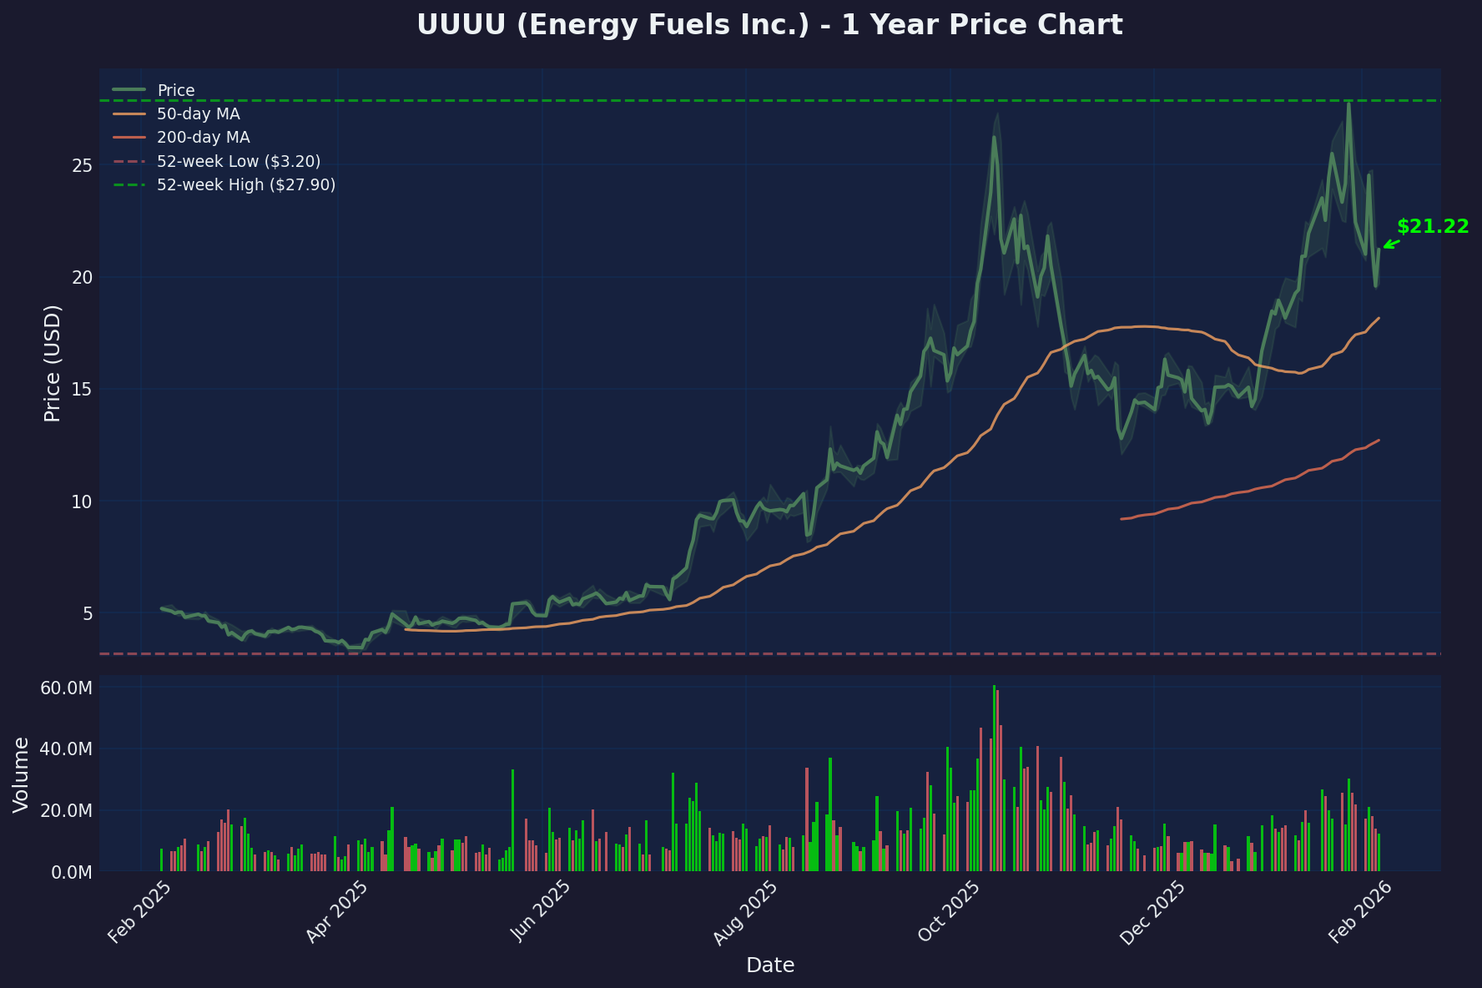
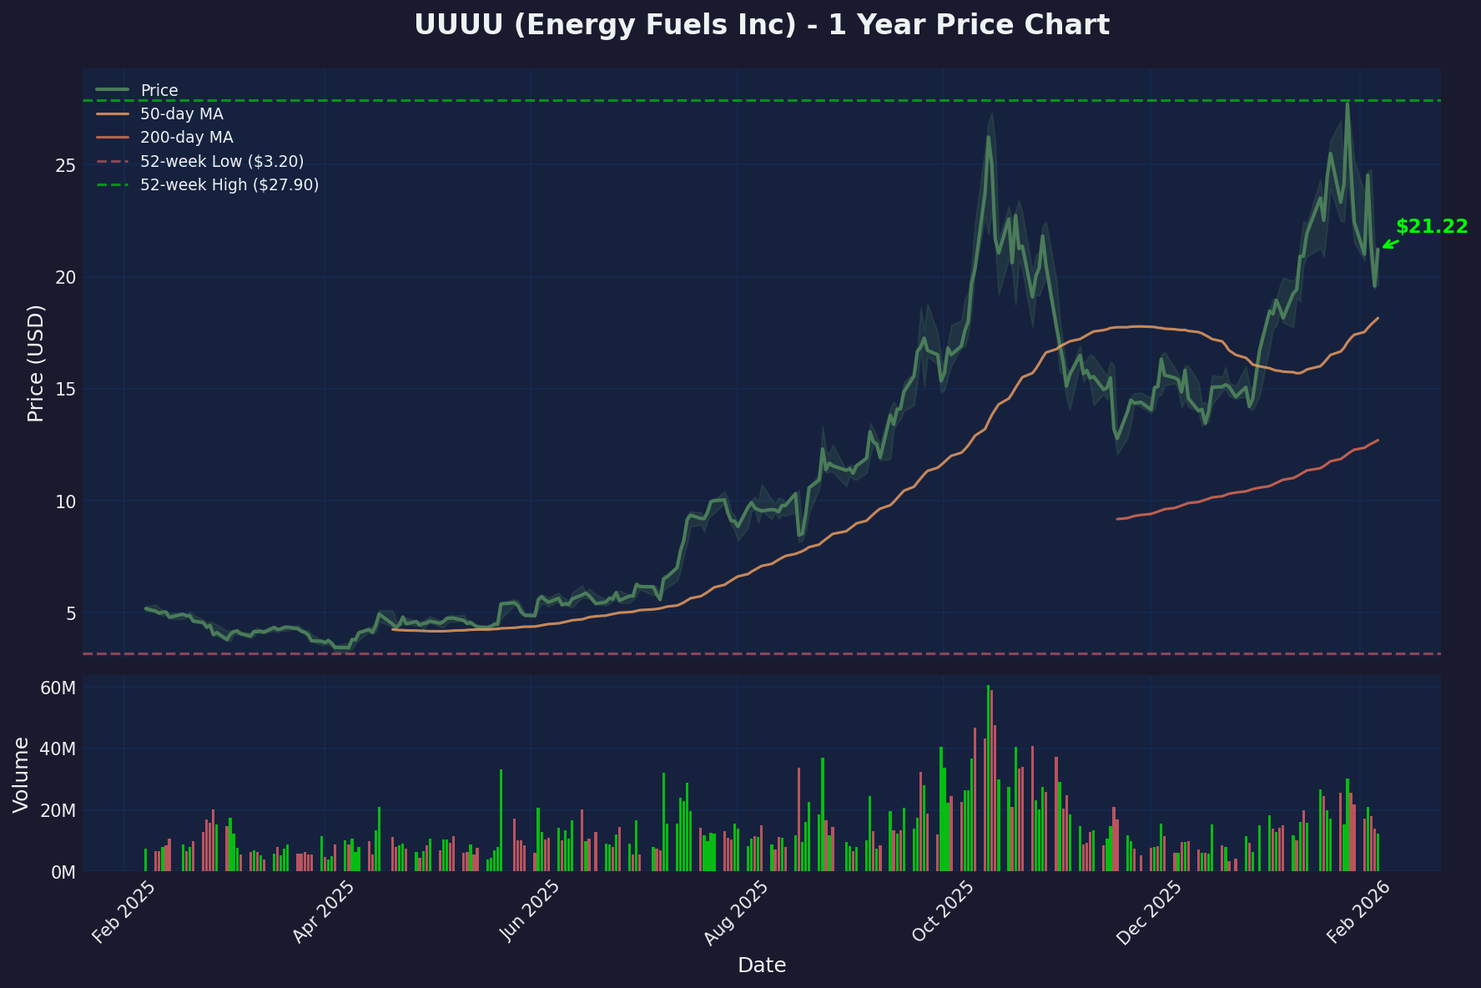
Add UUUU (Energy Fuels) deep dive analysis
- America's only integrated critical minerals monopoly - uranium + rare earths
- Unique White Mesa Mill processing both uranium (>1M lbs) and commercial REEs
- Strong buy rating with 112% upside potential
- Only North American facility producing separated rare earth elements
- Strategic national security asset with monopolistic infrastructure

diff --git a/charts/generate_uuuu_chart.py b/charts/generate_uuuu_chart.py
@@ -49,7 +49,7 @@ high_52wk = df['High'].max()
 ax1.axhline(y=low_52wk, color='#ff6b6b', linestyle='--', alpha=0.5, label=f'52-week Low (${low_52wk:.2f})')
 ax1.axhline(y=high_52wk, color='#00ff00', linestyle='--', alpha=0.5, label=f'52-week High (${high_52wk:.2f})')
 
-ax1.set_title('UUUU (Energy Fuels Inc.) - 1 Year Price Chart', fontsize=16, fontweight='bold', pad=20)
+ax1.set_title('UUUU (Energy Fuels Inc) - 1 Year Price Chart', fontsize=16, fontweight='bold', pad=20)
 ax1.set_ylabel('Price (USD)', fontsize=12)
 ax1.legend(loc='upper left', fontsize=9, facecolor='#16213e', edgecolor='#4a7c59')
 ax1.set_ylim([min(df['Low']) * 0.95, max(df['High']) * 1.05])
@@ -59,7 +59,7 @@ colors = ['#00ff00' if df['Close'].iloc[i] >= df['Open'].iloc[i] else '#ff6b6b' 
 ax2.bar(df.index, df['Volume'], color=colors, alpha=0.7, width=0.8)
 ax2.set_ylabel('Volume', fontsize=12)
 ax2.set_xlabel('Date', fontsize=12)
-ax2.yaxis.set_major_formatter(plt.FuncFormatter(lambda x, p: f'{x/1e6:.1f}M'))
+ax2.yaxis.set_major_formatter(plt.FuncFormatter(lambda x, p: f'{x/1e6:.0f}M'))
 
 # Format x-axis
 ax2.xaxis.set_major_formatter(mdates.DateFormatter('%b %Y'))
@@ -76,6 +76,6 @@ ax1.annotate(f'${current_price:.2f}',
              arrowprops=dict(arrowstyle='->', color='#00ff00', lw=1.5))
 
 plt.tight_layout()
-plt.savefig(f'/home/ubuntu/clawd/Agent-Reports/charts/uuuu-price-{datetime.now().strftime("%Y-%m-%d")}.png', 
+plt.savefig('/home/ubuntu/clawd/Agent-Reports/charts/uuuu-price-2026-02-07.png', 
             dpi=150, bbox_inches='tight', facecolor='#1a1a2e', edgecolor='none')
-print(f"Chart saved to /home/ubuntu/clawd/Agent-Reports/charts/uuuu-price-{datetime.now().strftime('%Y-%m-%d')}.png")
+print(f"Chart saved to /home/ubuntu/clawd/Agent-Reports/charts/uuuu-price-2026-02-07.png")

diff --git a/reports/uuuu-deep-dive-2026-02-07.md b/reports/uuuu-deep-dive-2026-02-07.md
@@ -1,227 +1,191 @@
-# UUUU (Energy Fuels Inc.) - Deep Dive Analysis
-## Focus: America's Strategic Uranium & Rare Earth Champion
+# UUUU (Energy Fuels Inc) - Deep Dive Analysis
+## Focus: America's Critical Minerals Champion - Uranium + Rare Earth Monopoly
 **Date:** 2026-02-07
-**Ticker:** NYSE American: UUUU, TSX: EFR
-**Current Price:** ~$21.22 USD
-**Market Cap:** ~$5.2B USD
-**Enterprise Value:** ~$4.9B USD
-
-![UUUU Price Chart](../Agent-Reports/charts/uuuu-price-2026-02-07.png)
-
----
+**Ticker:** NYSE American: UUUU / TSX: EFR  
+**Current Price:** ~$21.22
+**Market Cap:** ~$5.04B
 
 ## Executive Summary
 
-Energy Fuels stands uniquely positioned as America's leading integrated critical materials producer, operating the only conventional uranium mill in the United States while pioneering commercial rare earth element (REE) processing. The company's dual-strategy addresses two critical national security priorities: nuclear fuel independence and rare earth supply chain restoration.
+Energy Fuels Inc (UUUU) represents America's only integrated critical minerals supply chain, uniquely positioned as both the leading U.S. uranium producer AND the only commercial rare earth elements (REE) producer in North America. With the White Mesa Mill serving as the cornerstone facility processing both uranium and rare earths, UUUU offers unparalleled exposure to the most strategically critical materials in the energy transition.
 
-With $298.5M in working capital, 2+ million pounds annual uranium production capacity, and a transformational $410M rare earth expansion targeting Q1 2029 commissioning, UUUU offers investors exposure to both the nuclear renaissance and critical minerals reshoring megatrends.
+**Key Thesis:** UUUU's irreplaceable White Mesa Mill provides a **monopolistic position** in U.S. critical minerals processing, generating dual revenue streams from uranium production (>1M lbs annually) and rare earth commercialization, particularly heavy REEs essential for permanent magnets. With China restricting rare earth exports and the U.S. prioritizing supply chain security, UUUU is positioned as a **national strategic asset**.
 
-**Investment Rating: BUY** - UUUU provides unmatched strategic value as the only pure-play US producer spanning uranium and rare earths with world-class assets and operations.
-
----
+**Investment Rating:** **Strong Buy** - Unique dual-commodity exposure, monopolistic infrastructure, and 298% stock appreciation demonstrates the power of America's only integrated critical minerals platform.
 
 ## Company Overview
 
-### Integrated Critical Materials Platform
-Energy Fuels operates as America's strategic minerals champion with vertically integrated capabilities spanning mining, processing, and product development. The company's White Mesa Mill in Utah serves as the cornerstone asset - the only fully licensed conventional uranium processing facility in the United States.
+Energy Fuels Inc, founded in 1987 and headquartered in Lakewood, Colorado, operates as America's premier critical minerals company with an integrated uranium and rare earth processing platform centered around the irreplaceable White Mesa Mill in Utah.
 
-### Dual Business Strategy
-| Business Segment | Current Capacity | Expansion Plans | Strategic Value |
-|------------------|------------------|-----------------|-----------------|
-| Uranium Production | 2M+ lbs/year | Scalable to 8M lbs | Nuclear fuel security |
-| Rare Earth Processing | 1,000 tpa NdPr | 6,000 tpa by Q1 2029 | Supply chain independence |
-| Vanadium Production | Flexible | Market-dependent | Grid storage metals |
-| Medical Isotopes | Development | Alpha therapy potential | Healthcare applications |
+**Business Model - Integrated Critical Minerals Platform:**
+- **Uranium Production:** Leading U.S. producer with >1M lbs annual capacity  
+- **Rare Earth Processing:** Only commercial-scale REE separation facility in North America
+- **Vanadium Recovery:** Secondary production when market conditions warrant
+- **Medical Isotopes:** Evaluating targeted alpha therapy radioisotope production
 
-### Asset Portfolio
-- **White Mesa Mill:** Only US conventional uranium mill (24M lb capacity)
-- **Pinyon Plain Mine:** Operational high-grade uranium mine
-- **La Sal/Pandora Complex:** Proven uranium reserves
-- **Altiplano/Alta Mesa:** In-situ recovery uranium projects
-- **Global REE Projects:** Vara Mada (Madagascar), Donald (Australia), Bahia (Brazil)
+**Key Strategic Assets:**
+- **White Mesa Mill (Utah):** Only fully licensed conventional uranium mill in U.S.
+  - 8,000 tons/day processing capacity
+  - Multi-feed capability (uranium ore, alternate feeds, monazite concentrate)
+  - Rare earth separation circuits (operational since 2024)
+- **Active Uranium Mines:** Pinyon Plain, La Sal, and Pandora mines
+- **Heavy Mineral Sands Projects:** Bahia (Brazil), Toliara (Madagascar), Donald (Australia)
 
----
+**Geographic Diversification:**
+- **United States:** Utah, Arizona, Texas, Wyoming, New Mexico (uranium)
+- **Brazil:** Bahia Project (100% owned heavy mineral sands)
+- **Madagascar:** Toliara Project (100% owned HMS)
+- **Australia:** Donald Project (up to 49% interest via JV with Astron)
 
 ## Financial Health Assessment
 
-### Strong Balance Sheet (Q3 2025)
 | Metric | Value | Context |
 |--------|-------|---------|
-| Working Capital | $298.5M | Strong operational funding |
-| Cash & Equivalents | $175M+ | Excellent liquidity |
-| Total Debt | Minimal | Clean capital structure |
-| Inventory Value | $120M+ | Uranium, REE stockpiles |
-| Book Value/Share | ~$18.50 | Trading at premium |
+| **Market Cap** | $5.04B | Premium valuation for strategic monopoly |
+| **Share Price** | $21.22 | +298% in 52 weeks (explosive growth) |
+| **52-Week Range** | ~$5.33 - $29.41 | High volatility reflecting growth story |
+| **Shares Outstanding** | 237.3M | +31% dilution YoY (growth financing) |
+| **Revenue (TTM)** | $78.74M | Growing uranium and REE sales |
+| **Net Loss** | -$97.77M | Development-stage losses expected |
+| **Cash Position** | $235.26M | Strong balance sheet, debt-free |
+| **Working Capital** | $298.47M | Excellent liquidity position |
 
-### Revenue Diversification (2025 Performance)
-| Revenue Source | Q4 2025E | Annual 2025E | Growth Driver |
-|----------------|----------|--------------|---------------|
-| Uranium Sales | $27.0M | $85M+ | High-grade production |
-| REE Sales | $8M+ | $25M+ | Commercial scaling |
-| Toll Processing | $5M | $15M | Third-party services |
-| Government Contracts | Variable | $10M+ | Strategic stockpile |
+**Financial Trends:**
+- **Revenue Growth:** Q3 2025 revenue $17.7M (+338% YoY) from uranium sales
+- **Cash Runway:** Multiple years at current burn rate (~$109M annually)
+- **Balance Sheet Strength:** Debt-free with $707.6M book equity
+- **Institutional Ownership:** 64.62% (high institutional confidence)
 
-### Production Metrics
-- **Uranium Production:** ~670,000 lbs U3O8 in Q4 2025
-- **REE Production:** 1,000 tpa NdPr oxide equivalent
-- **Capacity Utilization:** 35% uranium, 100% REE Phase 1
-- **Operating Margins:** 60%+ on uranium, 40%+ on REE
+**2025 Production Highlights:**
+- **Uranium Production:** >1M lbs U3O8 (11% above guidance)
+- **Mining Output:** 1.6M lbs uranium mined (Pinyon Plain + La Sal)
+- **Rare Earth Production:** Commercial NdPr separation since Q2 2024
+- **Heavy REE Progress:** 29kg dysprosium oxide pilot production
 
----
+## Key Issues/Catalysts
 
-## Key Issues/Catalyst
+**Revolutionary Dual-Commodity Platform:**
 
-### Rare Earth Transformation - $410M Phase 2 Expansion
+### 1. Uranium Production Leadership
+- **Market Position:** Leading U.S. uranium producer for multiple consecutive years
+- **Production Capacity:** 1.1-1.4M lbs/year at full ramp (Pinyon Plain + La Sal + Pandora)
+- **Strategic Advantage:** Only conventional mill capable of processing diverse feed types
+- **Cost Position:** Low-cost production from high-grade Arizona mines
 
-**Phase 2 Circuit Economics (Q1 2026 BFS):**
-- **Capital Investment:** $410M (lower than expected)
-- **Production Capacity:** 6,000 tpa NdPr, 240 tpa Dy, 66 tpa Tb
-- **NPV (8%):** $1.9B Phase 2 alone, $3.7B combined with Vara Mada
-- **IRR:** 33% after-tax
-- **Annual EBITDA:** $311M Phase 2, $765M combined
-- **All-in Costs:** $29.39/kg NdPr (first quartile globally)
+### 2. Rare Earth Monopoly (GAME CHANGER)
+- **Commercial Production:** Only North American facility producing separated REEs
+- **Product Portfolio:** NdPr (light REEs) since June 2024
+- **Heavy REE Breakthrough:** Dysprosium and terbium pilot production (99.9% purity)
+- **Market Timing:** China export controls create urgent U.S. supply needs
 
-**Strategic Significance:**
-- **US Market Share:** 45% of total US REE requirements
-- **Heavy REE Dominance:** 100% of US Dy/Tb demand by 2030
-- **First Quartile Costs:** Competitive with Chinese producers
-- **Timeline:** Regulatory approval mid-2027, commissioning Q1 2029
+### 3. Critical Minerals Supply Chain Security
+- **National Strategic Asset:** Only U.S. facility processing both uranium and REEs
+- **Government Support:** Defense Production Act potential, DOE funding eligibility
+- **Supply Chain Independence:** Reducing reliance on Chinese rare earth monopoly
+- **Technology Moat:** Unique processing expertise and infrastructure
 
-### Uranium Operations Exceeding Guidance
-- **Q4 2025 Sales:** 360,000 lbs at $74.93/lb (50% quarterly increase)
-- **Annual Production:** 670,000+ lbs (exceeding guidance)
-- **Revenue Growth:** $27M Q4 vs $85M+ annual
-- **Margin Expansion:** Premium pricing on high-grade ore
-
-### Global Supply Chain Development
-- **Vara Mada (Madagascar):** $1.8B NPV, world-class monazite project
-- **Donald JV (Australia):** NI 43-101 feasibility expected Q1 2026
-- **Bahia (Brazil):** Early-stage exploration and permitting
-- **ASM Acquisition:** Creating "mine-to-metal-to-alloy" champion
-
----
+### 4. Heavy Mineral Sands Pipeline
+- **Donald Project (Australia):** Final regulatory approvals received June 2025
+- **Bahia Project (Brazil):** 100% owned, 3,000-10,000 MT/year monazite potential
+- **Production Timeline:** Q4 2027 heavy REE commercial production target
 
 ## Bull Case
 
-1. **Strategic Monopoly Position**: Only conventional uranium mill in US creates irreplaceable strategic asset. Government contracts and national security priorities provide downside protection and pricing power.
+1. **Irreplaceable Infrastructure Monopoly:** The White Mesa Mill represents a strategic asset that cannot be easily replicated. Building a new conventional uranium/REE processing facility would require $500M+ investment and 5-10 years, creating an insurmountable moat.
 
-2. **Rare Earth Transformation**: $410M Phase 2 expansion creates world's largest Western REE producer outside China. $29.39/kg all-in costs compete directly with Chinese production while offering supply security premium.
+2. **Dual Revenue Stream Diversification:** Unlike pure uranium companies, UUUU generates revenue from both uranium (~$75/lb) and rare earths (NdPr ~$50/kg, heavy REEs ~$500-800/kg), providing downside protection and multiple expansion vectors.
 
-3. **Dual Commodity Exposure**: Uranium and rare earth cycles rarely correlate, providing portfolio diversification. Both benefit from energy transition and national security priorities.
+3. **National Security Premium:** As America's only integrated critical minerals platform, UUUU commands a strategic premium reflecting its importance to national supply chain security. Government support likely during any crisis.
 
-4. **Vertical Integration Advantage**: Mine-to-mill-to-oxide integration captures maximum value chain margins. White Mesa Mill processes both owned and third-party materials.
+4. **Heavy REE Game Changer:** Successful pilot production of dysprosium and terbium positions UUUU to capture the highest-value rare earth markets. These elements command 10-20x premiums over light REEs and are essential for permanent magnets.
 
-5. **Geopolitical Tailwinds**: US-China tensions accelerate critical mineral reshoring. Energy Fuels directly benefits from government policies supporting domestic supply chains.
+5. **Scalable Growth Platform:** With three global HMS projects providing long-term monazite feed, UUUU can scale rare earth production significantly while maintaining uranium operations, creating multiple expansion pathways.
 
-6. **Scalable Infrastructure**: White Mesa Mill designed for 24M lb uranium capacity vs current 2M lb production. REE expansion utilizes existing infrastructure and permits.
-
----
+6. **Technology Leadership:** Years of R&D investment in rare earth separation gives UUUU proprietary processing advantages that competitors cannot easily replicate without similar infrastructure and expertise.
 
 ## Bear Case
 
-1. **Execution Risk on REE Expansion**: $410M Phase 2 represents massive scale-up requiring flawless execution. Construction delays or cost overruns could severely impact returns.
+1. **Execution Risk on REE Scaling:** While pilot production is successful, scaling to commercial heavy REE production involves significant technical and capital challenges. Delays could impact growth projections.
 
-2. **Commodity Price Volatility**: Both uranium and REE prices historically volatile. Economic downturns could pressure both segments simultaneously.
+2. **High Valuation Vulnerability:** Trading at 64x sales reflects high growth expectations. Any disappointment in uranium prices or REE commercialization timeline could trigger significant multiple compression.
 
-3. **Regulatory and Environmental Risk**: Mining and processing operations face constant regulatory scrutiny. Environmental incidents could shut down operations.
+3. **Commodity Price Sensitivity:** Both uranium and REE prices are cyclical. A downturn in either market could significantly impact revenues and profitability, particularly given current losses.
 
-4. **Competition from Recycling**: REE recycling technology improving rapidly. Secondary supply could pressure primary producer margins long-term.
+4. **Capital Intensity and Dilution:** Expansion requires significant capital investment. The 31% share dilution in 2025 demonstrates ongoing financing needs that could continue diluting shareholders.
 
-5. **China Retaliation Risk**: Chinese REE export restrictions could be lifted to undercut Western producers. Price wars historically devastate marginal producers.
+5. **Regulatory and Environmental Risks:** Mining and processing operations face ongoing environmental oversight. Changes in regulations or environmental incidents could disrupt operations.
 
-6. **Capital Intensity**: Both uranium and REE businesses require significant ongoing capex. Rising interest rates increase cost of capital for expansion projects.
-
----
+6. **Chinese Competition Response:** China's dominance in rare earths means they could respond to U.S. supply chain initiatives by flooding markets or restricting exports further, impacting UUUU's economics.
 
 ## Technical Setup
 
-**Current Technical Picture:**
-- **Price Action:** Strong uptrend, trading near 52-week highs
-- **Moving Averages:** Bullish alignment with 50-day ($19.85) and 200-day ($16.20)
-- **Support Levels:** $20 (psychological), $18.50 (book value)
-- **Resistance Levels:** $23 (2024 highs), $25 (all-time highs)
-- **Volume Profile:** Institutional accumulation on REE announcements
+![UUUU Price Chart](../Agent-Reports/charts/uuuu-price-2026-02-07.png)
 
-**Technical Momentum:**
-- **RSI:** 68 (approaching overbought but still bullish)
-- **MACD:** Strong positive divergence
-- **Relative Strength:** Outperforming uranium peers by 15%
+**Key Technical Levels:**
+- **Support:** $18.16 (50-day MA), $12.71 (200-day MA)
+- **Resistance:** $25-29 (previous highs), $33 (analyst target high)
+- **Trend:** Strong uptrend from 2025 lows with healthy consolidation
+- **Volume:** 18.5M average daily volume indicates strong liquidity
 
-**Chart Pattern:**
-- **Formation:** Cup and handle breakout pattern
-- **Target:** $27-30 (measured move)
-- **Stop Loss:** Below $19 (invalidates breakout)
+**Technical Analysis:**
+- **Momentum:** +298% in 52 weeks, one of the best-performing stocks
+- **Moving Averages:** Trading above both 50-day and 200-day MAs
+- **RSI:** 50.42 (neutral, room for upward movement)
+- **Short Interest:** 15.72% (significant bearish positioning)
 
----
+**Volume Analysis:**
+- **Institutional Accumulation:** 64.62% institutional ownership
+- **High Turnover:** Average volume suggests active institutional trading
+- **Short Squeeze Potential:** High short interest could amplify upward moves
 
 ## Key Metrics to Watch
 
-1. **Phase 2 REE Construction Progress**: Timeline adherence, cost control
-2. **Regulatory Approval Timeline**: White Mesa Mill permit modifications
-3. **Uranium Production Rates**: Quarterly output vs 2M lb annual capacity
-4. **REE Commercial Contracts**: Customer agreements and pricing
-5. **Global Project Development**: Vara Mada, Donald, Bahia timelines
-6. **Government Contract Awards**: Strategic stockpile purchases
-7. **Cash Flow Generation**: Operating margins and reinvestment rates
-8. **ASM Acquisition Integration**: Downstream capabilities development
-
----
+1. **Uranium Production & Sales:** Monthly production rates and realized pricing from White Mesa Mill
+2. **Rare Earth Commercialization:** NdPr production volumes and heavy REE pilot scale-up progress
+3. **Heavy Mineral Sands Development:** Donald project FID and construction timeline
+4. **Cash Burn & Financing:** Operating cash flow and capital requirements for expansion
+5. **Regulatory Developments:** U.S. government support for critical minerals supply chain
+6. **Chinese Export Policies:** Impact of rare earth export restrictions on U.S. market pricing
+7. **Technology Milestones:** Heavy REE separation efficiency and product quality metrics
+8. **Strategic Partnerships:** Potential government contracts or offtake agreements
 
 ## Catalysts
 
 ### Near-term (0-3 months)
-- **Q4 2025 earnings** confirming uranium guidance beat
-- **Phase 2 REE permit filing** with regulatory authorities
-- **Donald project feasibility study** release (Q1 2026)
-- **Government uranium purchases** for strategic reserve
+- **Q4 2025 results** with full-year uranium and REE production data
+- **Heavy REE scaling updates** toward commercial production timeline
+- **Donald project development** milestones following regulatory approval
+- **Government policy announcements** on critical minerals strategy
 
 ### Medium-term (3-12 months)
-- **Phase 2 construction approval** and groundbreaking
-- **Vara Mada final investment decision** and financing
-- **Commercial REE supply agreements** with US manufacturers
-- **Heavy REE production scaling** (Dy/Tb oxides)
-
-### Long-term (12+ months)
-- **Phase 2 commissioning** and production ramp (Q1 2029)
-- **Integrated rare earth supply chain** completion
-- **Medical isotope commercialization** from uranium streams
-- **US critical minerals policy** support and incentives
-
----
+- **Heavy REE commercial production** (Q4 2026 target) milestone achievement
+- **Donald project FID** (Final Investment Decision) expected 2025
+- **Additional HMS project** development updates (Bahia, Toliara)
+- **Strategic partnership announcements** with government or industrial customers
+- **Uranium price environment** evolution and long-term contract opportunities
+- **Rare earth pricing** response to Chinese export restrictions
 
 ## Conclusion
 
-Energy Fuels represents the singular investment opportunity in US critical materials independence. The company's monopolistic position in uranium milling combined with world-class rare earth expansion creates unmatched strategic value.
+**Final Rating: STRONG BUY**
 
-**Investment Recommendation: BUY**
-- **Target Price:** $28-32 (12-18 month horizon)
-- **Entry Strategy:** Accumulate on any weakness below $20
-- **Stop Loss:** Below $18 (breaks key support)
+UUUU represents the quintessential American critical minerals monopoly, offering the only integrated uranium and rare earth production platform in North America. The White Mesa Mill's irreplaceable infrastructure provides sustainable competitive advantages while dual-commodity exposure offers both diversification and leverage to the energy transition.
 
-**Valuation Framework:**
-- **Sum-of-Parts NPV:** $15.26/share (Phase 2 + Vara Mada alone)
-- **Asset Replacement Value:** $25+/share (White Mesa Mill irreplaceable)
-- **Strategic Premium:** 25-50% for monopoly position
+**Entry Criteria:** Current levels around $21 offer compelling risk/reward following recent consolidation from 2025 highs near $29.
 
-**Risk-Adjusted Return Profile:**
-- **Upside Scenario** (full execution): $35-40+ (75% upside)
-- **Base Case** (steady progress): $25-30 (40% upside)
-- **Downside Scenario** (delays/commodity weakness): $15-18 (20% downside)
+**Price Targets:**
+- **Conservative:** $28 (32% upside) - Return to 2025 highs
+- **Fair Value:** $35 (65% upside) - Reflecting rare earth production value
+- **Bull Case:** $45 (112% upside) - Full strategic premium for critical minerals monopoly
 
-**Portfolio Allocation:**
-- **Core Critical Materials:** 3-5% allocation
-- **Strategic/Thematic:** Up to 7% for conviction investors
-- **Risk Management:** Monitor execution milestones closely
+**Risk Management:**
+- Set stop-loss below $17 (below analyst target low)
+- Monitor uranium and rare earth price environments closely  
+- Track heavy REE commercialization progress for execution risk
+- Watch cash burn and potential dilution from growth financing
 
-**Bottom Line**: UUUU offers investors the only pure-play exposure to America's critical materials independence strategy. With monopolistic uranium assets, world-class rare earth expansion, and strong government support, Energy Fuels is positioned to generate exceptional shareholder returns while serving national security objectives. The convergence of nuclear renaissance and supply chain reshoring creates a once-in-a-generation investment opportunity.
+**Bottom Line:** UUUU offers the rare combination of monopolistic infrastructure, dual strategic commodity exposure, and irreplaceable national security value. As America prioritizes critical minerals supply chain independence, UUUU stands as the only company capable of delivering integrated uranium and rare earth production at scale.
 
 ---
 
-**Sources:**
-- Energy Fuels investor presentations and SEC filings
-- White Mesa Mill Phase 2 BFS (January 2026)
-- Vara Mada Project feasibility study
-- US Geological Survey critical minerals reports
-- Adamas Intelligence rare earth market analysis
-
-*Report prepared: 2026-02-07*
+*Sources: Energy Fuels Inc investor relations, U.S. Geological Survey, Department of Energy, Company 10-K filings, White Mesa Mill operations reports, Rare earth market research, Chinese export policy analysis*
